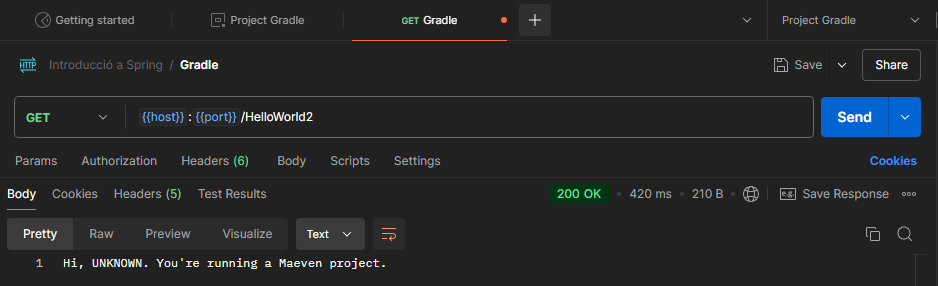
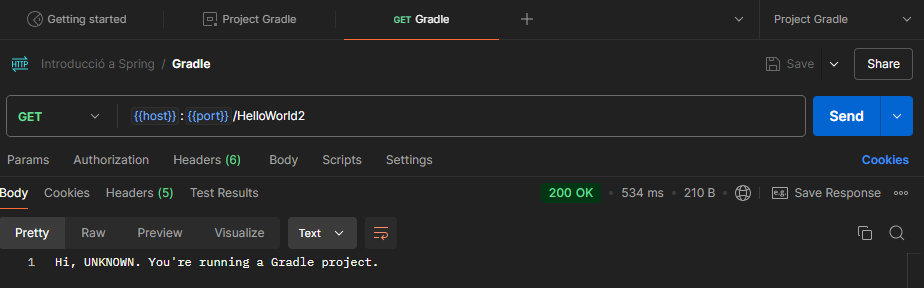
S4 01

diff --git a/Tasca S4.01 Introducció a Spring/Lvl 2/S04T01N02/src/main/java/cat/itacademy/s04/t01/n02/controller/HelloWorldController.java b/Tasca S4.01 Introducció a Spring/Lvl 2/S04T01N02/src/main/java/cat/itacademy/s04/t01/n02/controller/HelloWorldController.java
@@ -7,7 +7,7 @@ public class HelloWorldController {
 
     @GetMapping("/HelloWorld")
     public String hello(@RequestParam(value = "name", defaultValue = "UNKNOWN") String name){
-        return "Hi, " + name + ". You're running a Maeven project. ";
+        return "Hi, " + name + ". You're running a Gradle project. ";
 
     }
 
@@ -16,7 +16,7 @@ public class HelloWorldController {
 
     @GetMapping({"/HelloWorld2", "/HelloWorld2/{name}"})
     public String hello2(@PathVariable(value = "name", required = false) String name){
-        return "Hi, " + (name != null ? name : "UNKNOWN")  + ". You're running a Maeven project. ";
+        return "Hi, " + (name != null ? name : "UNKNOWN")  + ". You're running a Gradle project. ";
     }
 
     //http://localhost:9001/HelloWorld2
